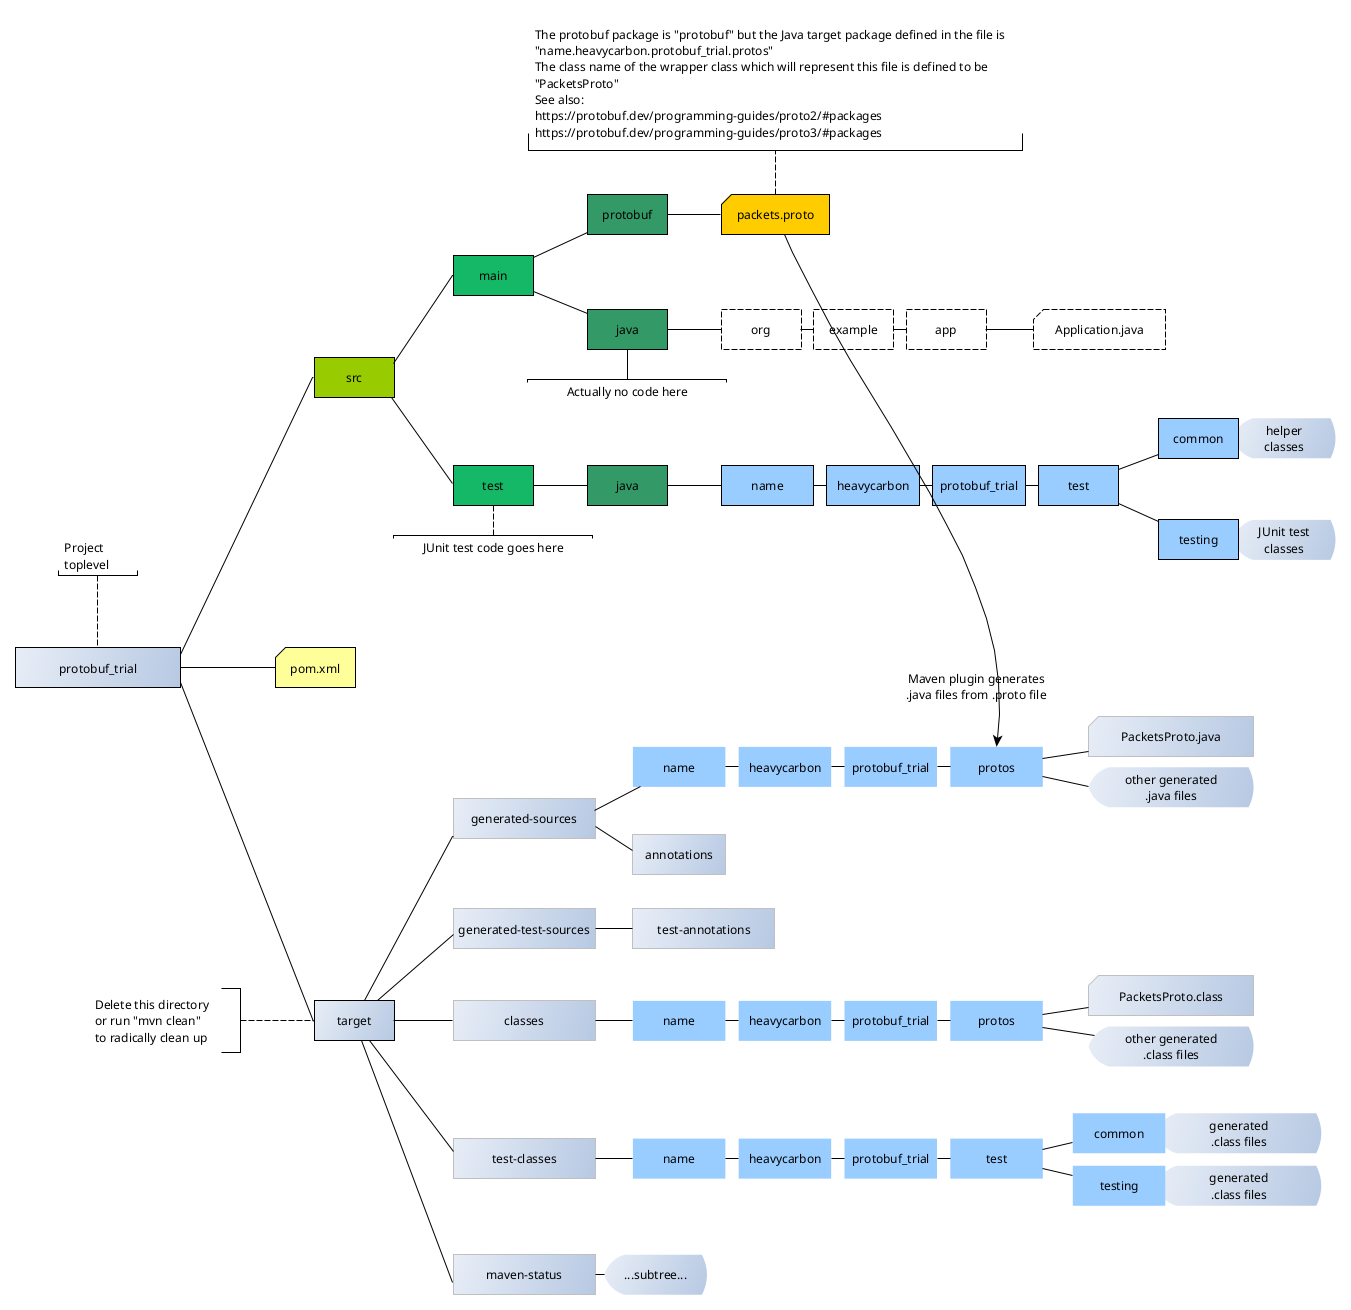
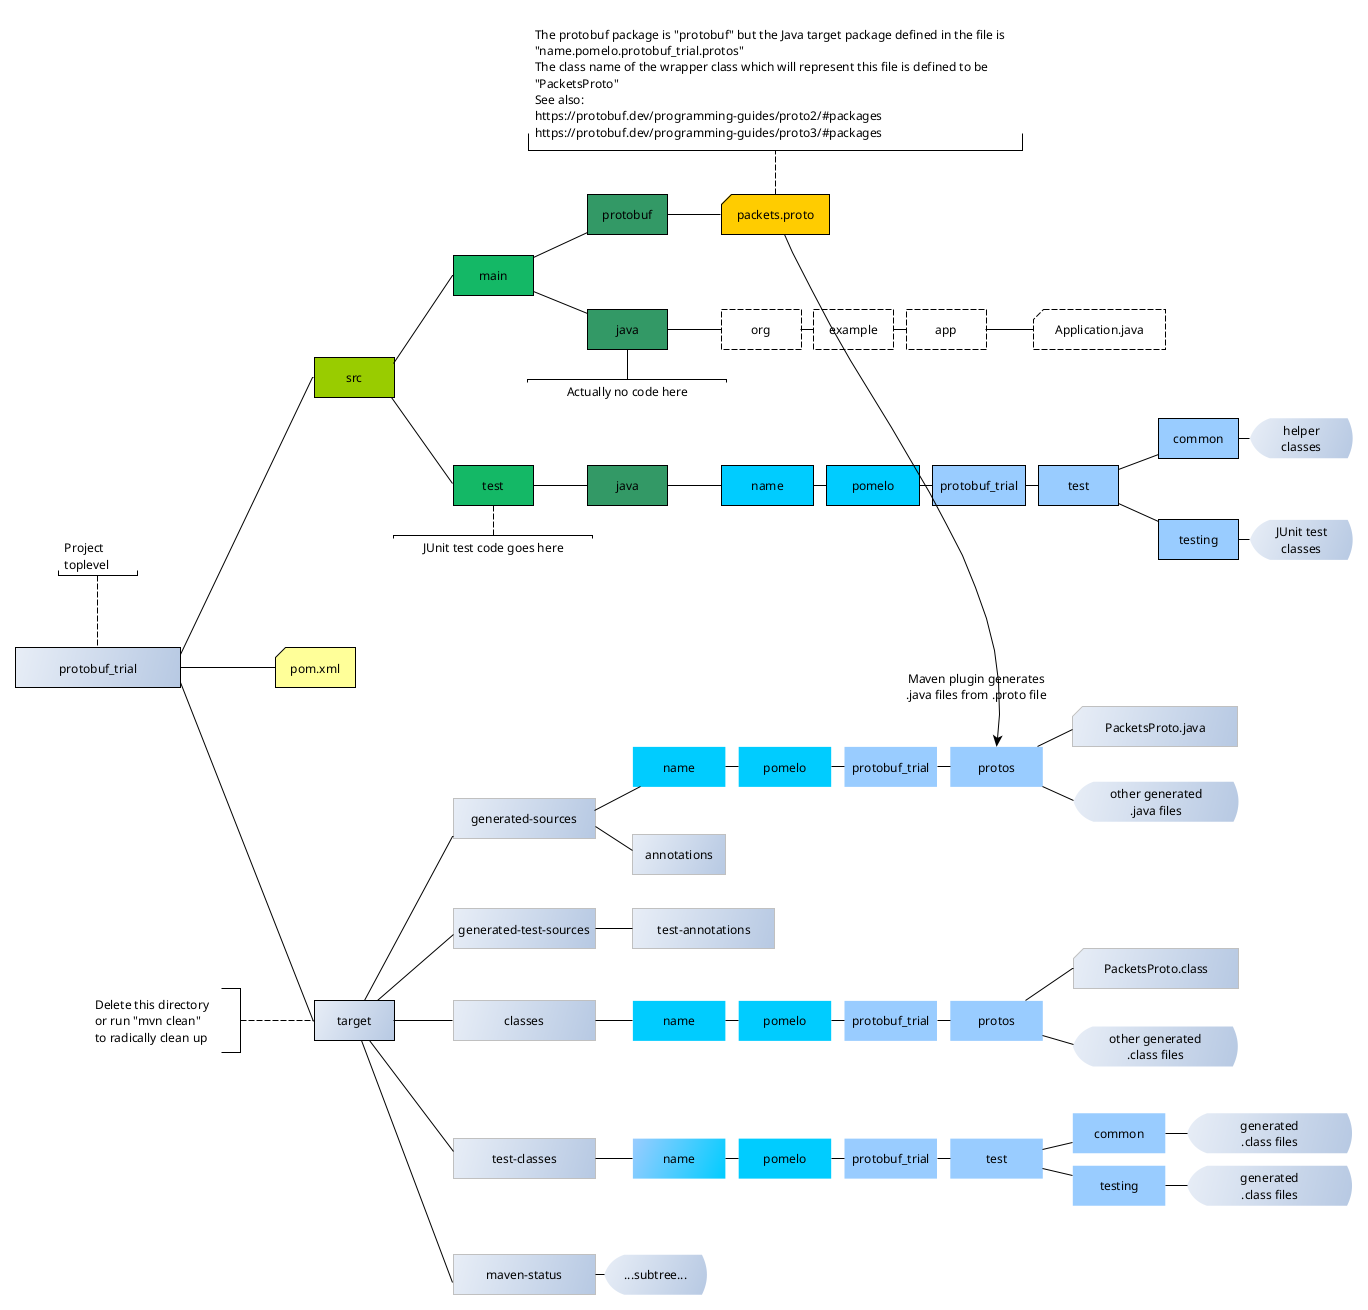
Review & updated Maven plugins

diff --git a/src/test/java/name/pomelo/protobuf_trial/test/common/UtilsForProtobufUuid.java b/src/test/java/name/pomelo/protobuf_trial/test/common/UtilsForProtobufUuid.java
@@ -1,8 +1,8 @@
-package name.heavycarbon.protobuf_trial.test.common;
+package name.pomelo.protobuf_trial.test.common;
 
 import com.google.protobuf.ByteString;
-import name.heavycarbon.protobuf_trial.protos.Uuid;
-import name.heavycarbon.protobuf_trial.protos.UuidSimple;
+import name.pomelo.protobuf_trial.protos.Uuid;
+import name.pomelo.protobuf_trial.protos.UuidSimple;
 import org.jetbrains.annotations.NotNull;
 
 import java.io.ByteArrayInputStream;
@@ -48,6 +48,14 @@ public abstract class UtilsForProtobufUuid {
         return shift;
     }
 
+    private static void writeLongBigEndianly(final long value, @NotNull ByteArrayOutputStream baos) {
+        long shift = value;
+        for (int i = 0; i < 8; i++) {
+            baos.write((int) (shift & 0xFF));
+            shift >>= 8;
+        }
+    }
+
     public static @NotNull UuidSimple javaUuidToProtobufUuidSimple(@NotNull UUID javaUuid) {
         return UuidSimple.newBuilder()
                 .setHigh(javaUuid.getMostSignificantBits())
@@ -72,14 +80,6 @@ public abstract class UtilsForProtobufUuid {
         final long low = pbUuid.getLow();
         final long high = pbUuid.getHigh();
         return new UUID(high, low);
-    }
-
-    private static void writeLongBigEndianly(final long value, @NotNull ByteArrayOutputStream baos) {
-        long shift = value;
-        for (int i = 0; i < 8; i++) {
-            baos.write((int) (shift & 0xFF));
-            shift >>= 8;
-        }
     }
 
     // UUID: [F][E][D][C][B][A][9][8],[7][6][5][4][3][2][1][0]

diff --git a/src/test/java/name/pomelo/protobuf_trial/test/testing/TestProtobufServerToClientMsgs.java b/src/test/java/name/pomelo/protobuf_trial/test/testing/TestProtobufServerToClientMsgs.java
@@ -1,19 +1,19 @@
-package name.heavycarbon.protobuf_trial.test.testing;
+package name.pomelo.protobuf_trial.test.testing;
 
 import com.google.protobuf.InvalidProtocolBufferException;
-import name.heavycarbon.protobuf_trial.protos.ClientToServer;
-import name.heavycarbon.protobuf_trial.protos.ServerToClient;
-import name.heavycarbon.protobuf_trial.test.common.CommonData;
-import name.heavycarbon.protobuf_trial.test.common.UtilsForProtobufUuid;
+import name.pomelo.protobuf_trial.protos.ClientToServer;
+import name.pomelo.protobuf_trial.protos.ServerToClient;
+import name.pomelo.protobuf_trial.test.common.CommonData;
+import name.pomelo.protobuf_trial.test.common.UtilsForProtobufUuid;
 import org.jetbrains.annotations.NotNull;
 import org.junit.jupiter.api.Test;
 
 import java.util.UUID;
 
 import static com.google.common.truth.Truth.assertThat;
-import static name.heavycarbon.protobuf_trial.test.common.UtilsForProtobufClientToServerMsgs.buildLoginFollowup;
-import static name.heavycarbon.protobuf_trial.test.common.UtilsForProtobufClientToServerMsgs.printAsJson;
-import static name.heavycarbon.protobuf_trial.test.common.UtilsForProtobufServerToClientMsgs.*;
+import static name.pomelo.protobuf_trial.test.common.UtilsForProtobufClientToServerMsgs.buildLoginFollowup;
+import static name.pomelo.protobuf_trial.test.common.UtilsForProtobufClientToServerMsgs.printAsJson;
+import static name.pomelo.protobuf_trial.test.common.UtilsForProtobufServerToClientMsgs.*;
 
 class TestProtobufServerToClientMsgs {
 

diff --git a/src/test/java/name/pomelo/protobuf_trial/test/testing/TestProtobufClientToServerMsgs.java b/src/test/java/name/pomelo/protobuf_trial/test/testing/TestProtobufClientToServerMsgs.java
@@ -1,13 +1,13 @@
-package name.heavycarbon.protobuf_trial.test.testing;
+package name.pomelo.protobuf_trial.test.testing;
 
 import com.google.protobuf.InvalidProtocolBufferException;
-import name.heavycarbon.protobuf_trial.protos.ClientToServer;
-import name.heavycarbon.protobuf_trial.test.common.CommonData;
-import name.heavycarbon.protobuf_trial.test.common.UtilsForProtobufUuid;
+import name.pomelo.protobuf_trial.protos.ClientToServer;
+import name.pomelo.protobuf_trial.test.common.CommonData;
+import name.pomelo.protobuf_trial.test.common.UtilsForProtobufUuid;
 import org.junit.jupiter.api.Test;
 
 import static com.google.common.truth.Truth.assertThat;
-import static name.heavycarbon.protobuf_trial.test.common.UtilsForProtobufClientToServerMsgs.*;
+import static name.pomelo.protobuf_trial.test.common.UtilsForProtobufClientToServerMsgs.*;
 
 class TestProtobufClientToServerMsgs {
 
@@ -18,7 +18,7 @@ class TestProtobufClientToServerMsgs {
     @Test
     void testLoginFinish() throws InvalidProtocolBufferException {
         final ClientToServer c2s = buildLoginFinish(CommonData.generateRandomCommonData());
-        assertThat(c2s.getPayloadType()).isEqualTo(ClientToServer.PayloadType.LOGIN_FINISH);
+        assertThat(c2s.getPayloadType()).isEqualTo(ClientToServer.PayloadType.LOGIN_CLOSE);
         final ClientToServer c2sBack;
         {
             final byte[] pbBytes = c2s.toByteArray();

diff --git a/src/test/java/name/pomelo/protobuf_trial/test/common/UtilsForProtobufClientToServerMsgs.java b/src/test/java/name/pomelo/protobuf_trial/test/common/UtilsForProtobufClientToServerMsgs.java
@@ -1,9 +1,9 @@
-package name.heavycarbon.protobuf_trial.test.common;
+package name.pomelo.protobuf_trial.test.common;
 
 import com.google.protobuf.InvalidProtocolBufferException;
 import com.google.protobuf.MessageOrBuilder;
 import com.google.protobuf.util.JsonFormat;
-import name.heavycarbon.protobuf_trial.protos.*;
+import name.pomelo.protobuf_trial.protos.*;
 import org.jetbrains.annotations.NotNull;
 
 import java.nio.ByteBuffer;
@@ -60,7 +60,7 @@ public class UtilsForProtobufClientToServerMsgs {
             case LOGIN_REQUEST:
                 // there is no payload/sub-msg
                 break;
-            case LOGIN_FINISH:
+            case LOGIN_CLOSE:
                 // there is no payload/sub-msg
                 break;
             default:
@@ -105,7 +105,7 @@ public class UtilsForProtobufClientToServerMsgs {
     public static @NotNull ClientToServer buildLoginFinish(@NotNull CommonData commonData) {
         final ClientToServer.Builder builder = buildCclientToServerBuilder(commonData);
         return builder
-                .setPayloadType(ClientToServer.PayloadType.LOGIN_FINISH)
+                .setPayloadType(ClientToServer.PayloadType.LOGIN_CLOSE)
                 .build();
     }
 

diff --git a/src/test/java/name/pomelo/protobuf_trial/test/testing/TestProtobufUuidSimple.java b/src/test/java/name/pomelo/protobuf_trial/test/testing/TestProtobufUuidSimple.java
@@ -1,8 +1,8 @@
-package name.heavycarbon.protobuf_trial.test.testing;
+package name.pomelo.protobuf_trial.test.testing;
 
 import com.google.protobuf.InvalidProtocolBufferException;
-import name.heavycarbon.protobuf_trial.test.common.UtilsForProtobufUuid;
-import name.heavycarbon.protobuf_trial.protos.UuidSimple;
+import name.pomelo.protobuf_trial.test.common.UtilsForProtobufUuid;
+import name.pomelo.protobuf_trial.protos.UuidSimple;
 import org.junit.jupiter.api.Test;
 
 import java.nio.ByteBuffer;

diff --git a/src/test/java/name/pomelo/protobuf_trial/test/testing/TestProtobufUuid.java b/src/test/java/name/pomelo/protobuf_trial/test/testing/TestProtobufUuid.java
@@ -1,8 +1,8 @@
-package name.heavycarbon.protobuf_trial.test.testing;
+package name.pomelo.protobuf_trial.test.testing;
 
 import com.google.protobuf.InvalidProtocolBufferException;
-import name.heavycarbon.protobuf_trial.test.common.UtilsForProtobufUuid;
-import name.heavycarbon.protobuf_trial.protos.Uuid;
+import name.pomelo.protobuf_trial.test.common.UtilsForProtobufUuid;
+import name.pomelo.protobuf_trial.protos.Uuid;
 import org.junit.jupiter.api.Test;
 
 import java.nio.ByteBuffer;

diff --git a/src/test/java/name/pomelo/protobuf_trial/test/common/UtilsForProtobufServerToClientMsgs.java b/src/test/java/name/pomelo/protobuf_trial/test/common/UtilsForProtobufServerToClientMsgs.java
@@ -1,7 +1,7 @@
-package name.heavycarbon.protobuf_trial.test.common;
+package name.pomelo.protobuf_trial.test.common;
 
 import com.google.protobuf.InvalidProtocolBufferException;
-import name.heavycarbon.protobuf_trial.protos.*;
+import name.pomelo.protobuf_trial.protos.*;
 import org.jetbrains.annotations.NotNull;
 
 import java.nio.ByteBuffer;

diff --git a/src/test/java/name/pomelo/protobuf_trial/test/common/CommonData.java b/src/test/java/name/pomelo/protobuf_trial/test/common/CommonData.java
@@ -1,7 +1,7 @@
-package name.heavycarbon.protobuf_trial.test.common;
+package name.pomelo.protobuf_trial.test.common;
 
 import lombok.Getter;
-import name.heavycarbon.protobuf_trial.protos.CommonStuff;
+import name.pomelo.protobuf_trial.protos.CommonStuff;
 import org.jetbrains.annotations.NotNull;
 import org.jetbrains.annotations.Nullable;
 

diff --git a/README.md b/README.md
@@ -1,12 +1,12 @@
 # A simple exercise in Google Protocol Buffers.
 
-Here, we want to define a serialization for "packets" exchanged between a client and a server, whereby the client
-wants to log in to the server. I tried to code this by hand, which is feasible but annoying and probably will be
+Here, we want to define serialization for "packets" exchanged between a client and a server, whereby the client
+wants to log in to the server. I tried to write this by hand, which is feasible but annoying and probably will be
 beset by "that one case one didn't think about", so why not use [Google protocol buffers](https://protobuf.dev/) ("protobufs") to
-perform all of the serialization/deserialization (to a compact binary representation too, yay).
+perform all of the serialization/deserialization (to a compact binary representation, which is nice).
 
-Actually going to the network is not done in this project. This is all about testing the serialization and unserialization 
-of packets. And actually getting everything to work in Intellij IDEA.
+Actually "going out to the network" is not performed in this project. This is only about testing serialization
+and deserialization of data packets. And getting everything to work in Intellij IDEA.
 
 - This is a standard Maven project, take a look at the [POM](pom.xml)
 - There is a single `.proto` definition file (for now) from which protobuf source is generated: [packets.proto](src/main/protobuf/packets.proto)
@@ -19,8 +19,8 @@ Relevant links to documentation:
 - [Setting the project up in Intellij IDEA: "How to Work With Protobuf-Maven Projects in IntelliJ IDEA"](https://blog.jetbrains.com/idea/2023/05/how-to-work-with-protobuf-maven-projects-in-intellij-idea/)
 - [The protobuf Maven artifact at Maven Repository](https://mvnrepository.com/artifact/com.google.protobuf/protobuf-java)
 
-An interesting problem is that jsut "compiling" the project in IntellijIDEA via the corresponding menu entry does not generate compilable Google protobuf source code.
-One has to execute "Run Maven > compile" through the dropdown menu for example.
+An interesting problem is that jsut "compiling" the project in IntellijIDEA via the corresponding menu entry does
+not generate compilable Google protobuf source code. One has to execute "Run Maven > compile" through the dropdown menu for example.
 
 The file tree of the project looks as follows:
 
